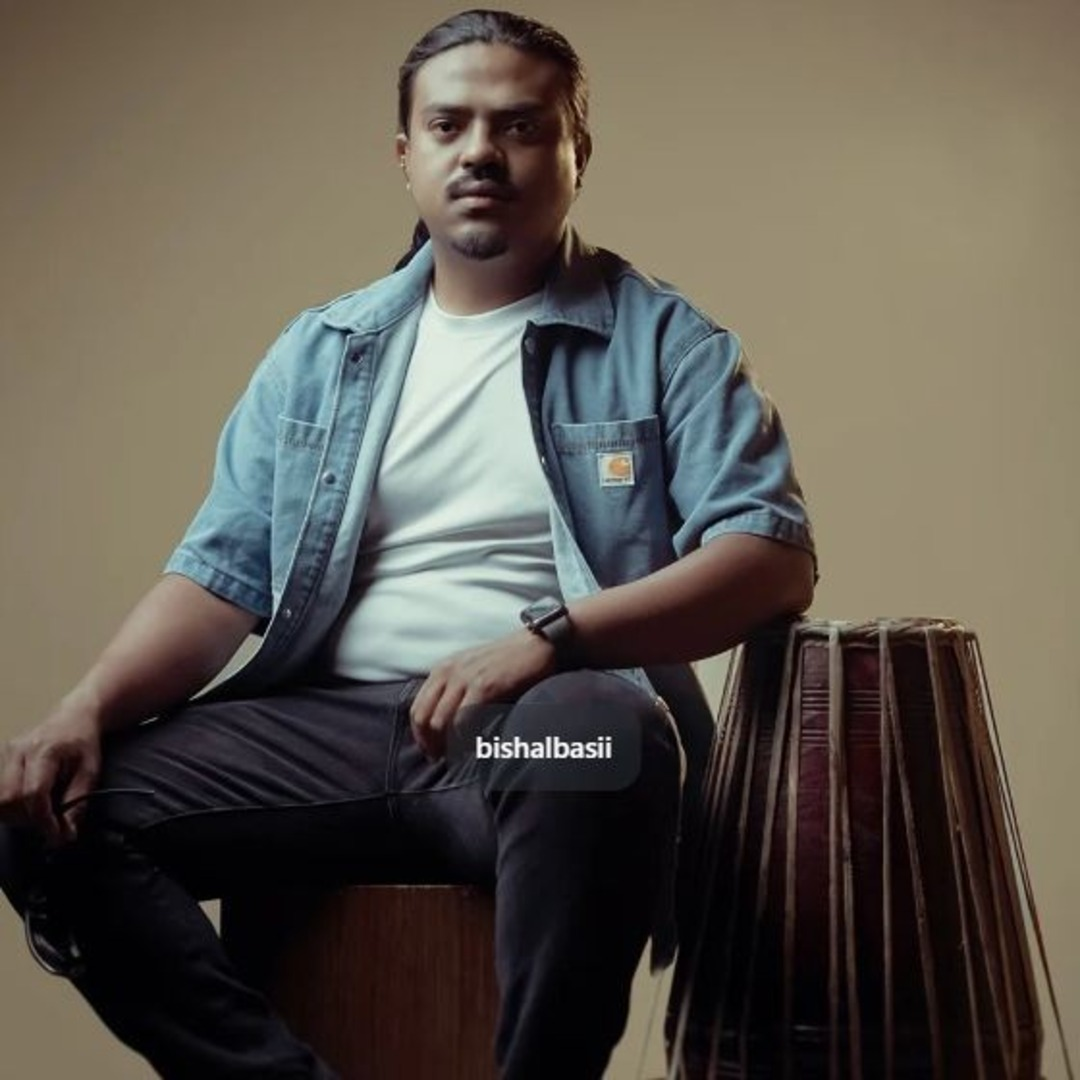
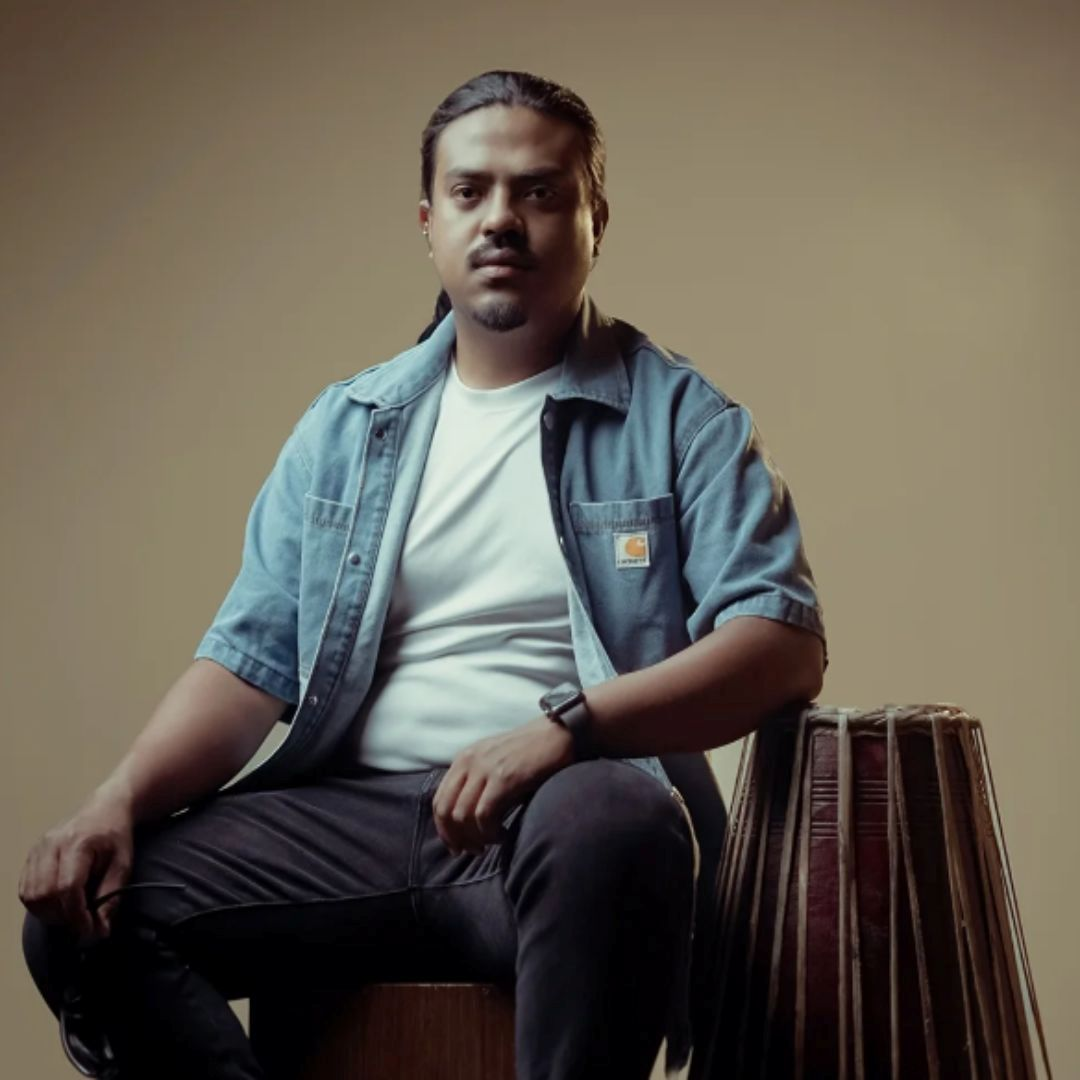
Update recent releases and auto-sort YouTube videos

diff --git a/src/app/page.tsx b/src/app/page.tsx
@@ -18,6 +18,8 @@ interface Video {
   title: string;
   id: string;
   desc: string;
+  views?: number;
+  publishedAt?: string;
 }
 
 const MUSICIANS: Member[] = [
@@ -107,18 +109,38 @@ const MANAGEMENT: Member[] = [
   },
 ];
 
-const POPULAR_VIDEOS: Video[] = [
-  { title: 'Asan Twa - Ekaya Hami | donob sessions', id: '2HTRkmBVE6w', desc: 'A fresh folk-fusion rendition of a classic Newa tune' },
-  { title: 'Mayosa - Shreejan, Priya & Ekaya Hami', id: 'fC2TbByrlbA', desc: 'Official Music Video' },
-];
-
-const RECENT_VIDEOS: Video[] = [
-  { title: 'Hissi - Ekaya Hami | Official Music Video', id: 'OBezCp_2cEY', desc: 'Latest Single Release' },
-  { title: 'Mayosa - Official Lyrics Video', id: 'aiz_ivdBRrc', desc: 'Lyrics & Acoustic Visualizer' },
+// Master Collection of Ekaya Hami Videos
+const INITIAL_VIDEOS: Video[] = [
+  {
+    title: 'Jhan Jaka Maya - Ekaya Hami | Live at Asan',
+    id: 'OzyBRsBbeNE',
+    desc: 'Live Performance from Asan, Kathmandu',
+  },
+  {
+    title: 'Ratna - Juju Kaji Ranjit with Ekaya Hami | Live at Asan',
+    id: '7dtLDBqayCY',
+    desc: 'Kathmandu Film Festival Collaboration',
+  },
+  {
+    title: 'Hissi - Ekaya Hami | Official Music Video',
+    id: 'OBezCp_2cEY',
+    desc: 'Official Music Video',
+  },
+  {
+    title: 'Asan Twa - Ekaya Hami | donob sessions',
+    id: '2HTRkmBVE6w',
+    desc: 'A fresh folk-fusion rendition of a classic Newa tune',
+  },
+  {
+    title: 'Mayosa - Shreejan, Priya & Ekaya Hami',
+    id: 'fC2TbByrlbA',
+    desc: 'Official Music Video',
+  },
 ];
 
 export default function Home() {
-  const [activeTab, setActiveTab] = useState<'popular' | 'recent'>('popular');
+  const [activeTab, setActiveTab] = useState<'popular' | 'recent'>('recent');
+  const [videoList, setVideoList] = useState<Video[]>(INITIAL_VIDEOS);
   const [isBookingOpen, setIsBookingOpen] = useState(false);
   const [isMobileMenuOpen, setIsMobileMenuOpen] = useState(false);
   const [bookingStatus, setBookingStatus] = useState('');
@@ -132,6 +154,45 @@ export default function Home() {
     eventDate: '',
     location: '',
     details: '',
+  });
+
+  // Automatically fetch live metrics (Views & Dates) from YouTube Data API if API Key is available
+  useEffect(() => {
+    const apiKey = process.env.NEXT_PUBLIC_YOUTUBE_API_KEY;
+    if (!apiKey) return;
+
+    const videoIds = INITIAL_VIDEOS.map((v) => v.id).join(',');
+    fetch(`https://www.googleapis.com/youtube/v3/videos?part=snippet,statistics&id=${videoIds}&key=${apiKey}`)
+      .then((res) => res.json())
+      .then((data) => {
+        if (data.items) {
+          const updated = INITIAL_VIDEOS.map((vid) => {
+            const fetched = data.items.find((item: any) => item.id === vid.id);
+            if (fetched) {
+              return {
+                ...vid,
+                views: parseInt(fetched.statistics.viewCount || '0', 10),
+                publishedAt: fetched.snippet.publishedAt,
+              };
+            }
+            return vid;
+          });
+          setVideoList(updated);
+        }
+      })
+      .catch((err) => console.error('YouTube Live Sync Error:', err));
+  }, []);
+
+  // Filter & Sort dynamic videos
+  const displayedVideos = [...videoList].sort((a, b) => {
+    if (activeTab === 'popular') {
+      return (b.views || 0) - (a.views || 0);
+    } else {
+      if (a.publishedAt && b.publishedAt) {
+        return new Date(b.publishedAt).getTime() - new Date(a.publishedAt).getTime();
+      }
+      return 0; // standard fallback array order
+    }
   });
 
   // Close modals on Escape key press
@@ -298,7 +359,7 @@ export default function Home() {
       </section>
 
       {/* Music & Videos */}
-      <section id="videos" className="py-20 px-6 max-w-6xl mx-auto border-b border-white/5">
+      <section id="videos" className="py-20 px-6 max-w-7xl mx-auto border-b border-white/5">
         <div className="text-center mb-10">
           <span className="text-amber-500 text-xs font-bold uppercase tracking-widest">Official YouTube Releases</span>
           <h2 className="text-3xl sm:text-4xl font-extrabold text-white mt-1">Featured Music & Videos</h2>
@@ -313,16 +374,21 @@ export default function Home() {
           </div>
         </div>
 
-        <div className="grid grid-cols-1 md:grid-cols-2 gap-8">
-          {(activeTab === 'popular' ? POPULAR_VIDEOS : RECENT_VIDEOS).map((video) => (
-            <div key={video.id} className="bg-white/[0.03] backdrop-blur-2xl border border-white/10 rounded-3xl overflow-hidden shadow-[0_8px_32px_0_rgba(0,0,0,0.37)] hover:border-amber-500/40 transition-all duration-500 group">
+        <div className="grid grid-cols-1 md:grid-cols-2 lg:grid-cols-3 gap-8">
+          {displayedVideos.map((video) => (
+            <div key={video.id} className="bg-white/[0.03] backdrop-blur-2xl border border-white/10 rounded-3xl overflow-hidden shadow-[0_8px_32px_0_rgba(0,0,0,0.37)] hover:border-amber-500/40 transition-all duration-500 group flex flex-col justify-between">
               <div className="relative aspect-video w-full bg-neutral-950">
                 <iframe className="w-full h-full" src={`https://www.youtube.com/embed/${video.id}`} title={video.title} allow="accelerometer; autoplay; clipboard-write; encrypted-media; gyroscope; picture-in-picture" allowFullScreen></iframe>
               </div>
-              <div className="p-6 flex justify-between items-center">
+              <div className="p-6 flex justify-between items-center flex-1">
                 <div>
-                  <h3 className="font-bold text-white group-hover:text-amber-500 transition-colors text-base sm:text-lg">{video.title}</h3>
+                  <h3 className="font-bold text-white group-hover:text-amber-500 transition-colors text-sm sm:text-base line-clamp-2">{video.title}</h3>
                   <p className="text-xs text-neutral-400 mt-1">{video.desc}</p>
+                  {video.views !== undefined && (
+                    <span className="inline-block mt-2 text-[10px] text-amber-500/80 bg-amber-500/10 px-2 py-0.5 rounded-md border border-amber-500/20">
+                      {video.views.toLocaleString()} views
+                    </span>
+                  )}
                 </div>
                 <a href={`https://www.youtube.com/watch?v=${video.id}`} target="_blank" rel="noreferrer" className="shrink-0 ml-4 p-3 bg-white/[0.05] hover:bg-amber-500 hover:text-black text-neutral-300 rounded-2xl border border-white/10 transition-all" aria-label="Open video on YouTube">
                   <svg className="w-4 h-4 fill-current" viewBox="0 0 24 24"><path d="M23.498 6.186a3.016 3.016 0 0 0-2.122-2.136C19.505 3.545 12 3.545 12 3.545s-7.505 0-9.377.505A3.017 3.017 0 0 0 .502 6.186C0 8.07 0 12 0 12s0 3.93.502 5.814a3.016 3.016 0 0 0 2.122 2.136c1.871.505 9.376.505 9.376.505s7.505 0 9.377-.505a3.015 3.015 0 0 0 2.122-2.136C24 15.93 24 12 24 12s0-3.93-.502-5.814zM9.545 15.568V8.432L15.818 12l-6.273 3.568z"/></svg>
